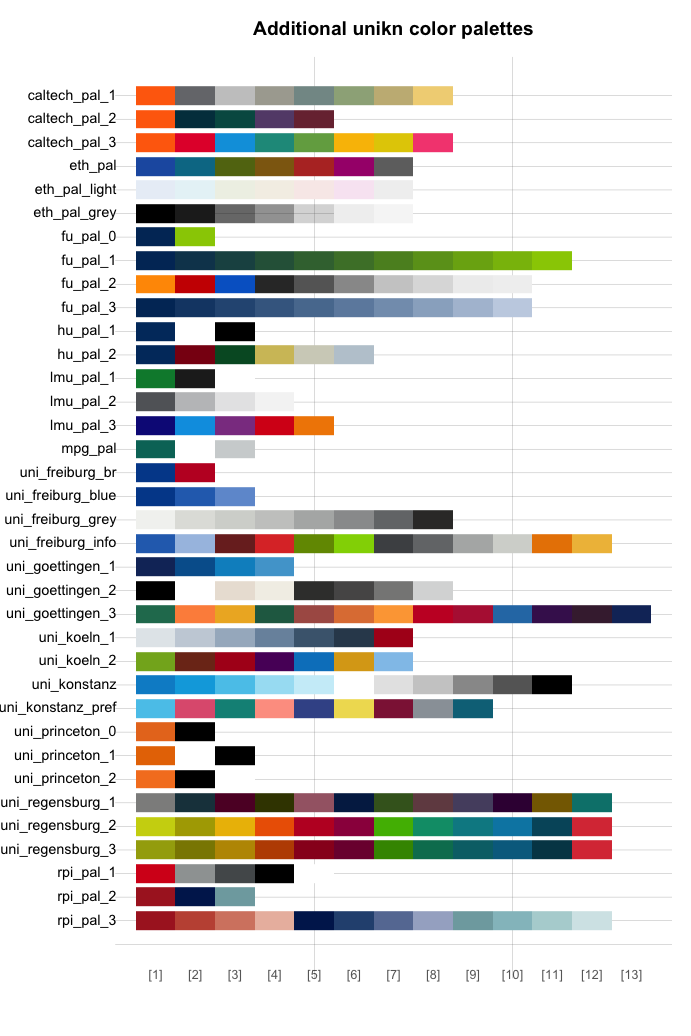
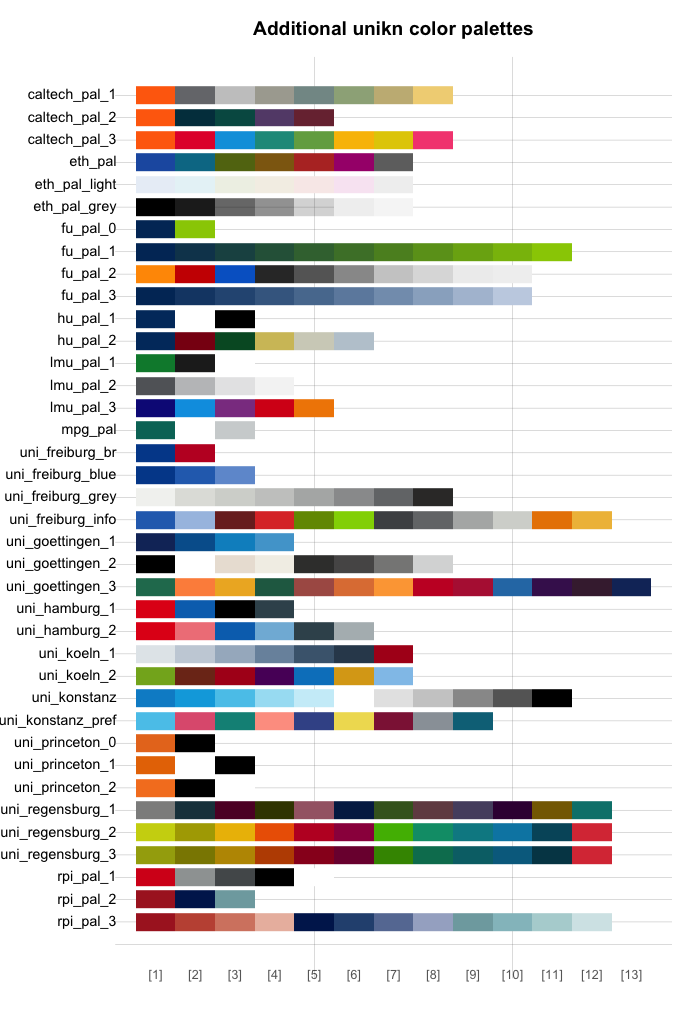
update README

Changed region(s): [[0.0, 0.0927, 0.9725, 0.8958]]

diff --git a/README.md b/README.md
@@ -107,7 +107,7 @@ The **unikn** contains two categories of color palettes:
 
 -   16 palettes implementing the colors of the [University of
     Konstanz](https://www.uni-konstanz.de/)’s corporate design
--   36 additional color palettes from various institutions
+-   38 additional color palettes from various institutions
 
 ### The colors of Konstanz University
 
@@ -208,6 +208,8 @@ color palettes of the following institutions:
     `uni_freiburg_info`
 -   [University of Göttingen](https://uni-goettingen.de/):
     `uni_goettingen_1`, `uni_goettingen_2`, `uni_goettingen_3`
+-   [University of Hamburg](https://www.uni-hamburg.de/):
+    `uni_hamburg_1`, `uni_hamburg_2`
 -   [University of Köln](https://www.uni-koeln.de/): `uni_koeln_1`,
     `uni_koeln_2`
 -   [University of Konstanz](https://www.uni-konstanz.de/):
@@ -226,7 +228,7 @@ color palettes of the following institutions:
 
 <img src="inst/pix/README-seecol-add-pals-1.png" width="550px" style="display: block; margin: auto;" />
 
-These 36 palettes are exported (as named vectors), documented (to credit
+These 38 palettes are exported (as named vectors), documented (to credit
 their contributors and sources), and can easily be used and modified by
 the R community (e.g., in visualizations).
 
@@ -740,6 +742,6 @@ remain with their original creators:
 
 <!-- Footer: -->
 
-\[File `README.md` updated on 2022-12-05.\]
+\[File `README.md` updated on 2022-12-07.\]
 
 <!-- eof. -->
